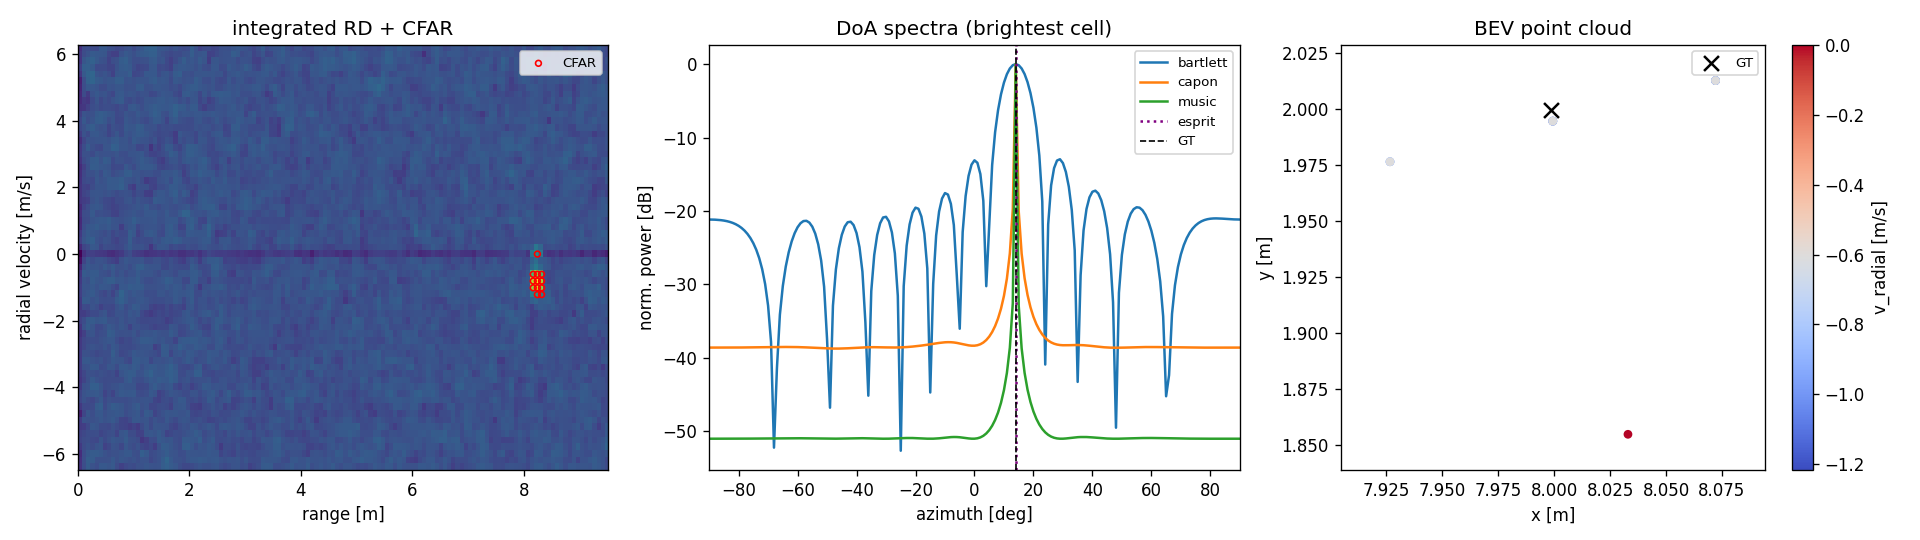
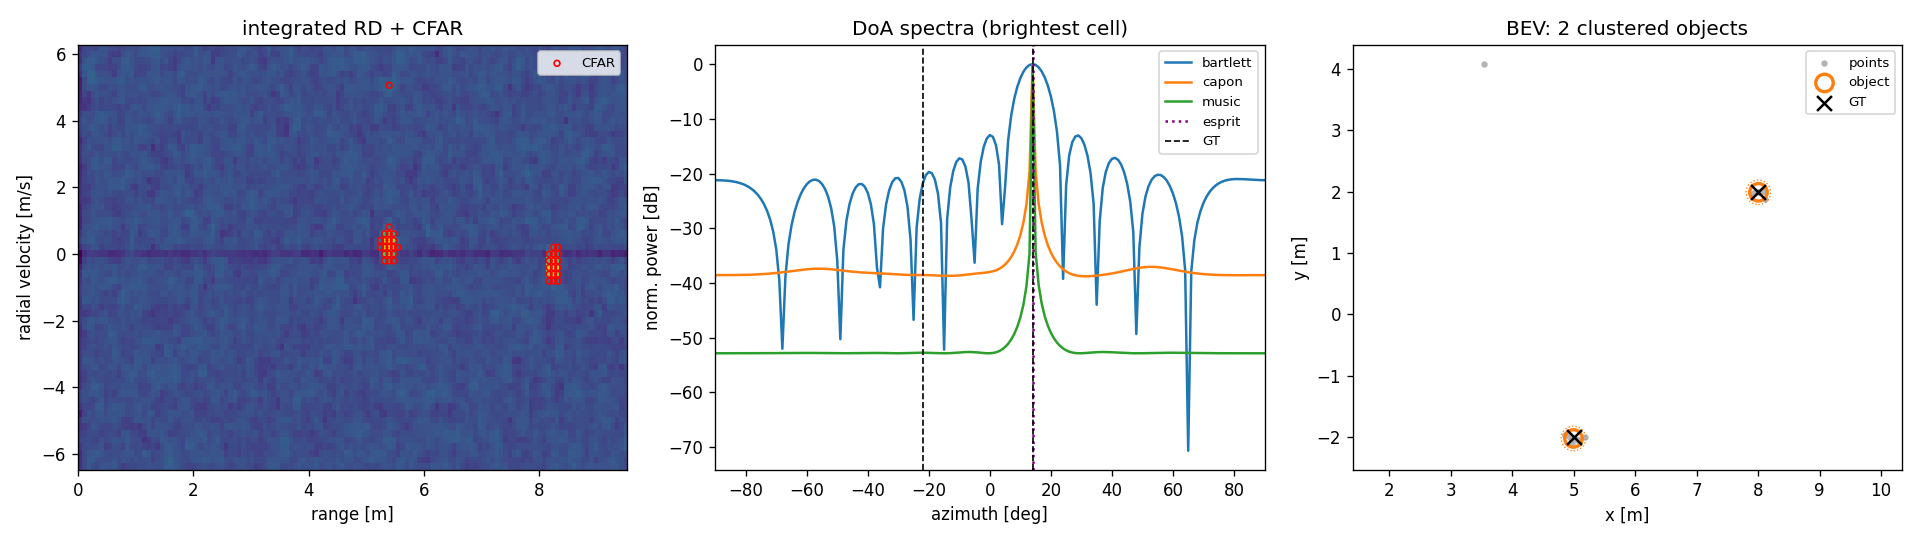
feat: add point cloud clustering function

diff --git a/simulator/streaming_subscriber_pointcloud.py b/simulator/streaming_subscriber_pointcloud.py
@@ -26,6 +26,7 @@ import time
 import numpy as np
 
 from processing.cfar import cfar_2d
+from processing.clustering import cluster_point_cloud
 from processing.doa import estimate_doa, spectrum
 from processing.point_cloud import (
     integrate, mimo_point_cloud, tdm_doppler_compensation)
@@ -83,11 +84,14 @@ def deadlines(header: dict) -> tuple[float, float]:
 
 def process_mimo_frame(frame: np.ndarray, header: dict,
                        doa_method: str = "music", n_sources: int = 1,
-                       cfar_method: str = "ca") -> dict:
-    """Run the M2 detect-then-angle pipeline on one MIMO frame (testable core).
+                       cfar_method: str = "ca", eps_m: float = 0.8,
+                       vel_scale: float = 1.0, min_samples: int = 2,
+                       min_range_bins: int = 6) -> dict:
+    """Run the M2->M3 pipeline on one MIMO frame (testable core).
 
-    Returns the stage outputs plus a `timings` dict (seconds) for rd / integrate
-    / cfar / doa_pc, and `total` (range-Doppler -> point cloud).
+    Returns the stage outputs (incl. the raw `cloud` and clustered `objects`)
+    plus a `timings` dict (seconds) for rd / integrate / cfar / doa_pc / cluster,
+    and `total` (range-Doppler -> clustered objects).
     """
     p = frame_params(header)
     t0 = time.perf_counter()
@@ -100,26 +104,34 @@ def process_mimo_frame(frame: np.ndarray, header: dict,
     # integrated (Gamma-V) noise so the realized Pfa stays nominal.
     mask = cfar_2d(power_db, method=cfar_method, n_integrate=frame.shape[0],
                    **_CFAR_KW)
-    mask[:, 0] = False
+    # Min-range gate: drop the near-DC range bins where CFAR is unreliable (its
+    # training window straddles the DC dead-zone -> deflated noise estimate ->
+    # a near-DC false-alarm cluster, amplified by non-coherent integration).
+    # MIMO-path only — the single-channel reports keep their bin-0 notch for
+    # byte-for-byte. See docs/superpowers/notes/2026-06-23-cfar-near-dc-mimo.md.
+    mask[:, :min_range_bins] = False
     t3 = time.perf_counter()
     cloud = mimo_point_cloud(
         rd, mask, p["pos"], float(p["range_axis"][1]), p["vel_axis"],
         p["n_tx"], p["n_rx"], doa_method=doa_method, n_sources=n_sources)
     t4 = time.perf_counter()
+    objects = cluster_point_cloud(cloud, eps_m=eps_m, min_samples=min_samples,
+                                  vel_scale=vel_scale)
+    t5 = time.perf_counter()
     timings = {"rd": t1 - t0, "integrate": t2 - t1, "cfar": t3 - t2,
-               "doa_pc": t4 - t3, "total": t4 - t0}
+               "doa_pc": t4 - t3, "cluster": t5 - t4, "total": t5 - t0}
     return dict(rd=rd, power_db=power_db, mask=mask, cloud=cloud,
-                timings=timings, **p)
+                objects=objects, timings=timings, **p)
 
 
 def format_summary(frame_idx: int, stage_means_ms: tuple, total_ms: float,
                    period_ms: float, acq_ms: float, over_stream: int,
                    over_realtime: int, window: int, drops: int) -> str:
-    """One-line real-time summary (range-Doppler -> point cloud)."""
-    rd, integ, cfar, doa = stage_means_ms
+    """One-line real-time summary (range-Doppler -> clustered objects)."""
+    rd, integ, cfar, doa, clust = stage_means_ms
     realtime = "yes" if over_realtime == 0 else "NO"
     return (f"[frame {frame_idx}] rd={rd:.1f} integ={integ:.1f} cfar={cfar:.1f} "
-            f"doa+pc={doa:.1f} total={total_ms:.1f} (mean ms) | "
+            f"doa+pc={doa:.1f} cluster={clust:.1f} total={total_ms:.1f} (mean ms) | "
             f"period={period_ms:.1f} acq={acq_ms:.1f} ms | "
             f"over_stream={over_stream}/{window} "
             f"over_realtime={over_realtime}/{window} drops={drops} "
@@ -165,12 +177,17 @@ def _draw(axes, out: dict, header: dict, doa_method: str) -> None:
 
     cloud = out["cloud"]
     if cloud.shape[0]:
-        ax2.scatter(cloud[:, 0], cloud[:, 1], c=cloud[:, 2], cmap="coolwarm", s=16)
+        ax2.scatter(cloud[:, 0], cloud[:, 1], c="0.7", s=8, label="points")
+    for obj in out.get("objects", []):
+        ax2.scatter([obj.x], [obj.y], marker="o", facecolors="none",
+                    edgecolors="C1", s=90, linewidths=2.0, label="object")
+        ax2.add_patch(plt.Circle((obj.x, obj.y), max(obj.extent_m, 0.2),
+                                 fill=False, color="C1", ls=":", lw=0.8))
     for gt in header.get("ground_truth", []):
         rng, az = gt["range_m"], np.deg2rad(gt.get("azimuth_deg", 0.0))
         ax2.scatter([rng * np.cos(az)], [rng * np.sin(az)], marker="x", c="k", s=60)
     ax2.set(xlabel="x [m]", ylabel="y [m]",
-            title=f"BEV point cloud ({doa_method})")
+            title=f"BEV: {len(out.get('objects', []))} objects ({doa_method})")
     ax2.axis("equal")
     plt.pause(0.001)
 
@@ -190,7 +207,8 @@ def main() -> None:
     fig, axes = plt.subplots(1, 3, figsize=(16, 4.5))
 
     W = args.stats_window
-    stage_times = np.zeros((W, 5), dtype=np.float64)   # rd, integ, cfar, doa, total
+    # columns: rd, integ, cfar, doa+pc, cluster, total
+    stage_times = np.zeros((W, 6), dtype=np.float64)
     idx = 0
     drops = 0
     over_stream = over_realtime = 0
@@ -226,7 +244,7 @@ def main() -> None:
 
             t = out["timings"]
             stage_times[idx % W] = (t["rd"], t["integrate"], t["cfar"],
-                                    t["doa_pc"], t["total"])
+                                    t["doa_pc"], t["cluster"], t["total"])
             if t["total"] > stream_dl:
                 over_stream += 1
             if t["total"] > acq_dl:
@@ -234,8 +252,8 @@ def main() -> None:
             idx += 1
 
             if idx % W == 0:
-                means_ms = tuple(stage_times[:, k].mean() * 1e3 for k in range(4))
-                total_ms = stage_times[:, 4].mean() * 1e3
+                means_ms = tuple(stage_times[:, k].mean() * 1e3 for k in range(5))
+                total_ms = stage_times[:, 5].mean() * 1e3
                 print(format_summary(
                     idx, means_ms, total_ms, stream_dl * 1e3, acq_dl * 1e3,
                     over_stream, over_realtime, W, drops))

diff --git a/tests/test_streaming_pointcloud.py b/tests/test_streaming_pointcloud.py
@@ -11,8 +11,8 @@ from simulator.streaming_subscriber_pointcloud import (
 from simulator.wire import build_header
 
 
-def _frame_and_header(frame_index=0):
-    cfg, targets = load_scenario("scenarios/scenario_mimo_2d.json")
+def _frame_and_header(scenario="scenarios/scenario_mimo_2d.json", frame_index=0):
+    cfg, targets = load_scenario(scenario)
     gen = FMCWBeatSignalGenerator(cfg)
     frame = gen.generate_frame_mimo(targets, frame_index=frame_index)
     header = build_header(
@@ -32,19 +32,52 @@ def test_frame_params_from_header():
     assert p["vel_axis"].shape == (cfg.n_chirps,)
 
 
-def test_process_mimo_frame_produces_point_cloud():
+def _near(objects, x, y, r=0.7):
+    """Count clustered objects within radius r (m) of (x, y)."""
+    return sum(np.hypot(o.x - x, o.y - y) < r for o in objects)
+
+
+def _gt_xy(header):
+    out = []
+    for gt in header["ground_truth"]:
+        az = np.deg2rad(gt["azimuth_deg"])
+        out.append((gt["range_m"] * np.cos(az), gt["range_m"] * np.sin(az)))
+    return out
+
+
+def test_process_mimo_frame_produces_cloud_and_objects():
     cfg, frame, header = _frame_and_header()
     out = process_mimo_frame(frame, header, doa_method="music")
     assert out["power_db"].shape == (cfg.n_chirps, cfg.n_range // 2)
-    assert out["mask"].shape == out["power_db"].shape
     assert out["cloud"].ndim == 2 and out["cloud"].shape[1] == 4
-    # timings present for the real-time report
-    assert set(out["timings"]) == {"rd", "integrate", "cfar", "doa_pc", "total"}
+    # timings present for the real-time report (incl. the cluster stage)
+    assert set(out["timings"]) == {
+        "rd", "integrate", "cfar", "doa_pc", "cluster", "total"}
     assert out["timings"]["total"] > 0.0
-    # the off-boresight target (8, 2) should appear somewhere in the cloud
-    if out["cloud"].shape[0]:
-        d = np.hypot(out["cloud"][:, 0] - 8.0, out["cloud"][:, 1] - 2.0)
-        assert d.min() < 0.5
+    # the single target (8, 2) collapses to EXACTLY one object near it. (Far
+    # objects may exist from near-DC false alarms — a detection-Pfa issue, not
+    # clustering; the tracker rejects transient false tracks.)
+    assert _near(out["objects"], 8.0, 2.0) == 1
+
+
+def test_process_mimo_frame_two_targets_found():
+    _, frame, header = _frame_and_header("scenarios/scenario_mimo_2targets.json")
+    out = process_mimo_frame(frame, header, doa_method="music")
+    # exactly one object near each GT target — a merged blob would sit near
+    # neither, so this also verifies separation.
+    for gx, gy in _gt_xy(header):
+        assert _near(out["objects"], gx, gy) == 1
+
+
+def test_process_mimo_frame_crossing_velocity_separates():
+    # at the crossing frame (~40) both targets share ~(4, 0) but have opposite
+    # radial velocity -> only the velocity feature separates them.
+    _, frame, header = _frame_and_header(
+        "scenarios/scenario_mimo_crossing.json", frame_index=40)
+    sep = process_mimo_frame(frame, header, doa_method="music", vel_scale=1.0)
+    merged = process_mimo_frame(frame, header, doa_method="music", vel_scale=0.0)
+    assert _near(sep["objects"], 4.0, 0.0, r=1.0) == 2     # velocity splits
+    assert _near(merged["objects"], 4.0, 0.0, r=1.0) == 1  # spatial-only merges
 
 
 def test_deadlines_tdm_acquisition_scales_with_n_tx():
@@ -58,11 +91,12 @@ def test_deadlines_tdm_acquisition_scales_with_n_tx():
 
 def test_format_summary_reports_realtime_verdict():
     line = format_summary(
-        frame_idx=20, stage_means_ms=(1.0, 0.2, 3.0, 8.0), total_ms=12.2,
+        frame_idx=20, stage_means_ms=(1.0, 0.2, 3.0, 8.0, 0.5), total_ms=12.7,
         period_ms=50.0, acq_ms=9.6, over_stream=0, over_realtime=5,
         window=20, drops=2)
     assert "[frame 20]" in line
     assert "doa+pc=8.0" in line
-    assert "total=12.2" in line
-    assert "REALTIME=NO" in line          # 12.2 ms total > 9.6 ms acquisition
+    assert "cluster=0.5" in line
+    assert "total=12.7" in line
+    assert "REALTIME=NO" in line          # 12.7 ms total > 9.6 ms acquisition
     assert "drops=2" in line

diff --git a/evaluation/mimo_demo.py b/evaluation/mimo_demo.py
@@ -25,6 +25,7 @@ from processing.cfar import cfar_2d
 from processing.doa import _GRID_DEG, estimate_doa, spectrum, steering_matrix
 from processing.point_cloud import (
     integrate, mimo_point_cloud, tdm_doppler_compensation)
+from processing.clustering import cluster_point_cloud
 from processing.range_doppler import range_doppler
 from simulator.beat_signal_generator import FMCWBeatSignalGenerator, load_scenario
 
@@ -42,8 +43,9 @@ def processing_view(scenario: str, out: Path) -> None:
     rd = np.stack([range_doppler(stack[v]) for v in range(stack.shape[0])])
     power = integrate(rd)
     rd_db = 10.0 * np.log10(power + 1e-12)
-    mask = cfar_2d(rd_db, method="os", guard=(2, 4), training=(4, 8), pfa=1e-4)
-    mask[:, 0] = False
+    mask = cfar_2d(rd_db, method="os", guard=(2, 4), training=(4, 8), pfa=1e-4,
+                   n_integrate=stack.shape[0])
+    mask[:, :6] = False   # min-range gate (near-DC CFAR-edge false alarms)
 
     pos = gen.virtual_element_positions()
     range_axis = gen.range_axis_m()
@@ -51,6 +53,7 @@ def processing_view(scenario: str, out: Path) -> None:
     range_per_bin = float(range_axis[1])
     cloud = mimo_point_cloud(rd, mask, pos, range_per_bin, vel_axis,
                              cfg.n_tx, cfg.n_rx, doa_method="music", n_sources=1)
+    objects = cluster_point_cloud(cloud, eps_m=0.8, min_samples=2, vel_scale=1.0)
 
     d, r = np.unravel_index(np.argmax(power), power.shape)
     snap = tdm_doppler_compensation(rd[:, d, r], d, cfg.n_chirps, cfg.n_tx, cfg.n_rx)
@@ -84,14 +87,18 @@ def processing_view(scenario: str, out: Path) -> None:
     h, l = ax1.get_legend_handles_labels()
     ax1.legend(dict(zip(l, h)).values(), dict(zip(l, h)).keys(), fontsize=8)
 
-    # Panel 3: BEV point cloud + GT
+    # Panel 3: BEV point cloud, clustered objects, GT
     if cloud.shape[0]:
-        sc = ax2.scatter(cloud[:, 0], cloud[:, 1], c=cloud[:, 2], cmap="coolwarm",
-                         s=18)
-        fig.colorbar(sc, ax=ax2, label="v_radial [m/s]")
+        ax2.scatter(cloud[:, 0], cloud[:, 1], c="0.7", s=8, label="points")
+    for obj in objects:
+        ax2.scatter([obj.x], [obj.y], marker="o", facecolors="none",
+                    edgecolors="C1", s=110, linewidths=2.0, label="object")
+        ax2.add_patch(plt.Circle((obj.x, obj.y), max(obj.extent_m, 0.2),
+                                 fill=False, color="C1", ls=":", lw=0.8))
     for (gx, gy) in gt_xy:
         ax2.scatter([gx], [gy], marker="x", c="k", s=80, label="GT")
-    ax2.set(xlabel="x [m]", ylabel="y [m]", title="BEV point cloud")
+    ax2.set(xlabel="x [m]", ylabel="y [m]",
+            title=f"BEV: {len(objects)} clustered objects")
     ax2.axis("equal")
     h, l = ax2.get_legend_handles_labels()
     if l:
@@ -129,7 +136,8 @@ def superresolution(out: Path, az_true=(-3.0, 3.0)) -> None:
 
 def main() -> None:
     rep = ROOT / "report"
-    processing_view(str(ROOT / "scenarios/scenario_mimo_2d.json"),
+    # Two-target scene: shows the cloud collapsing to two separated objects.
+    processing_view(str(ROOT / "scenarios/scenario_mimo_2targets.json"),
                     rep / "mimo_processing_view.png")
     superresolution(rep / "mimo_superresolution.png")
 

diff --git a/processing/clustering.py b/processing/clustering.py
@@ -22,6 +22,16 @@ class Detection:
     cell_count: int
 
 
+@dataclass
+class ClusterObject:
+    """A Cartesian object from point-cloud clustering (the tracker's input)."""
+    x: float            # centroid, metres
+    y: float
+    v_radial: float     # mean radial velocity, m/s
+    n_points: int       # points in the cluster
+    extent_m: float     # spatial spread (2*std of |point - centroid|)
+
+
 def cluster(
     mask: np.ndarray,
     rd_db: np.ndarray,
@@ -241,5 +251,56 @@ def cluster_peak_picking(
             doppler_bin=d_c,
             peak_db=peak_val,
             cell_count=n,
+        ))
+    return out
+
+
+def cluster_point_cloud(
+    points: np.ndarray,
+    method: str = "dbscan",
+    eps_m: float = 0.8,
+    min_samples: int = 2,
+    vel_scale: float = 1.0,
+) -> list:
+    """Cluster a Cartesian point cloud into ClusterObject centroids.
+
+    `points`: (M, >=3) array of [x, y, v_radial, ...] (the MIMO point cloud).
+    Velocity is folded into the metric as `vel_scale * v_radial`, so objects at
+    the same position but different radial velocity (crossing / overtaking)
+    separate; `vel_scale = 0` clusters on (x, y) only. `eps_m` is the DBSCAN
+    radius in metres over the (x, y, vel_scale*v) space. Mirrors `cluster()` for
+    the RD grid; the grid methods (peak/cc/dbscan there) do not apply to a
+    scattered point cloud, so DBSCAN is the point-cloud method.
+    """
+    points = np.asarray(points, dtype=float)
+    if points.shape[0] == 0:
+        return []
+    if method != "dbscan":
+        raise ValueError(
+            f"cluster_point_cloud.method must be 'dbscan', got {method!r}"
+        )
+    try:
+        from sklearn.cluster import DBSCAN
+    except ImportError as e:
+        raise ImportError(
+            "DBSCAN clustering requires scikit-learn; install with "
+            "`pip install scikit-learn`"
+        ) from e
+
+    xy = points[:, :2]
+    v = points[:, 2] if points.shape[1] >= 3 else np.zeros(len(points))
+    feat = np.column_stack([xy, vel_scale * v])
+    labels = DBSCAN(eps=eps_m, min_samples=min_samples).fit_predict(feat)
+
+    out = []
+    for label_id in sorted(set(labels)):
+        if label_id == -1:
+            continue  # DBSCAN noise
+        sel = labels == label_id
+        cx, cy = xy[sel].mean(axis=0)
+        dist = np.hypot(xy[sel, 0] - cx, xy[sel, 1] - cy)
+        out.append(ClusterObject(
+            x=float(cx), y=float(cy), v_radial=float(v[sel].mean()),
+            n_points=int(sel.sum()), extent_m=2.0 * float(dist.std()),
         ))
     return out

diff --git a/tests/test_cluster_point_cloud.py b/tests/test_cluster_point_cloud.py
@@ -1,0 +1,42 @@
+"""M3 (M3a): Cartesian point-cloud clustering (DBSCAN on x, y, v_radial)."""
+import numpy as np
+
+from processing.clustering import ClusterObject, cluster_point_cloud
+
+
+def test_collapses_single_target():
+    pts = np.array([[8.0, 2.0, -0.8], [8.05, 2.02, -0.85],
+                    [7.96, 1.98, -0.82], [8.02, 2.01, -0.79]])
+    objs = cluster_point_cloud(pts, eps_m=0.5, min_samples=2)
+    assert len(objs) == 1
+    assert isinstance(objs[0], ClusterObject)
+    assert abs(objs[0].x - 8.0) < 0.1 and abs(objs[0].y - 2.0) < 0.1
+    assert objs[0].n_points == 4
+
+
+def test_separates_two_targets():
+    a = np.array([[8, 2, -0.8], [8.05, 2.0, -0.8], [7.97, 2.02, -0.8]])
+    b = np.array([[3, -1, 2.0], [3.04, -1.02, 2.0], [2.98, -0.97, 2.0]])
+    objs = cluster_point_cloud(np.vstack([a, b]), eps_m=0.5, min_samples=2)
+    assert len(objs) == 2
+
+
+def test_velocity_feature_separates_same_position():
+    slow = np.array([[5, 0, 0.0], [5.05, 0.02, 0.05], [4.97, -0.01, -0.03]])
+    fast = np.array([[5, 0, 6.0], [5.04, 0.01, 6.05], [4.98, 0.02, 5.97]])
+    pts = np.vstack([slow, fast])
+    assert len(cluster_point_cloud(pts, eps_m=0.5, min_samples=2,
+                                   vel_scale=1.0)) == 2     # velocity splits
+    assert len(cluster_point_cloud(pts, eps_m=0.5, min_samples=2,
+                                   vel_scale=0.0)) == 1     # spatial-only merges
+
+
+def test_isolated_noise_dropped():
+    blob = np.array([[8, 2, -0.8], [8.05, 2.0, -0.8], [7.97, 2.02, -0.8]])
+    noise = np.array([[20.0, 15.0, 3.0]])
+    objs = cluster_point_cloud(np.vstack([blob, noise]), eps_m=0.5, min_samples=2)
+    assert len(objs) == 1
+
+
+def test_empty_cloud_returns_empty():
+    assert cluster_point_cloud(np.empty((0, 3)), eps_m=0.5) == []
